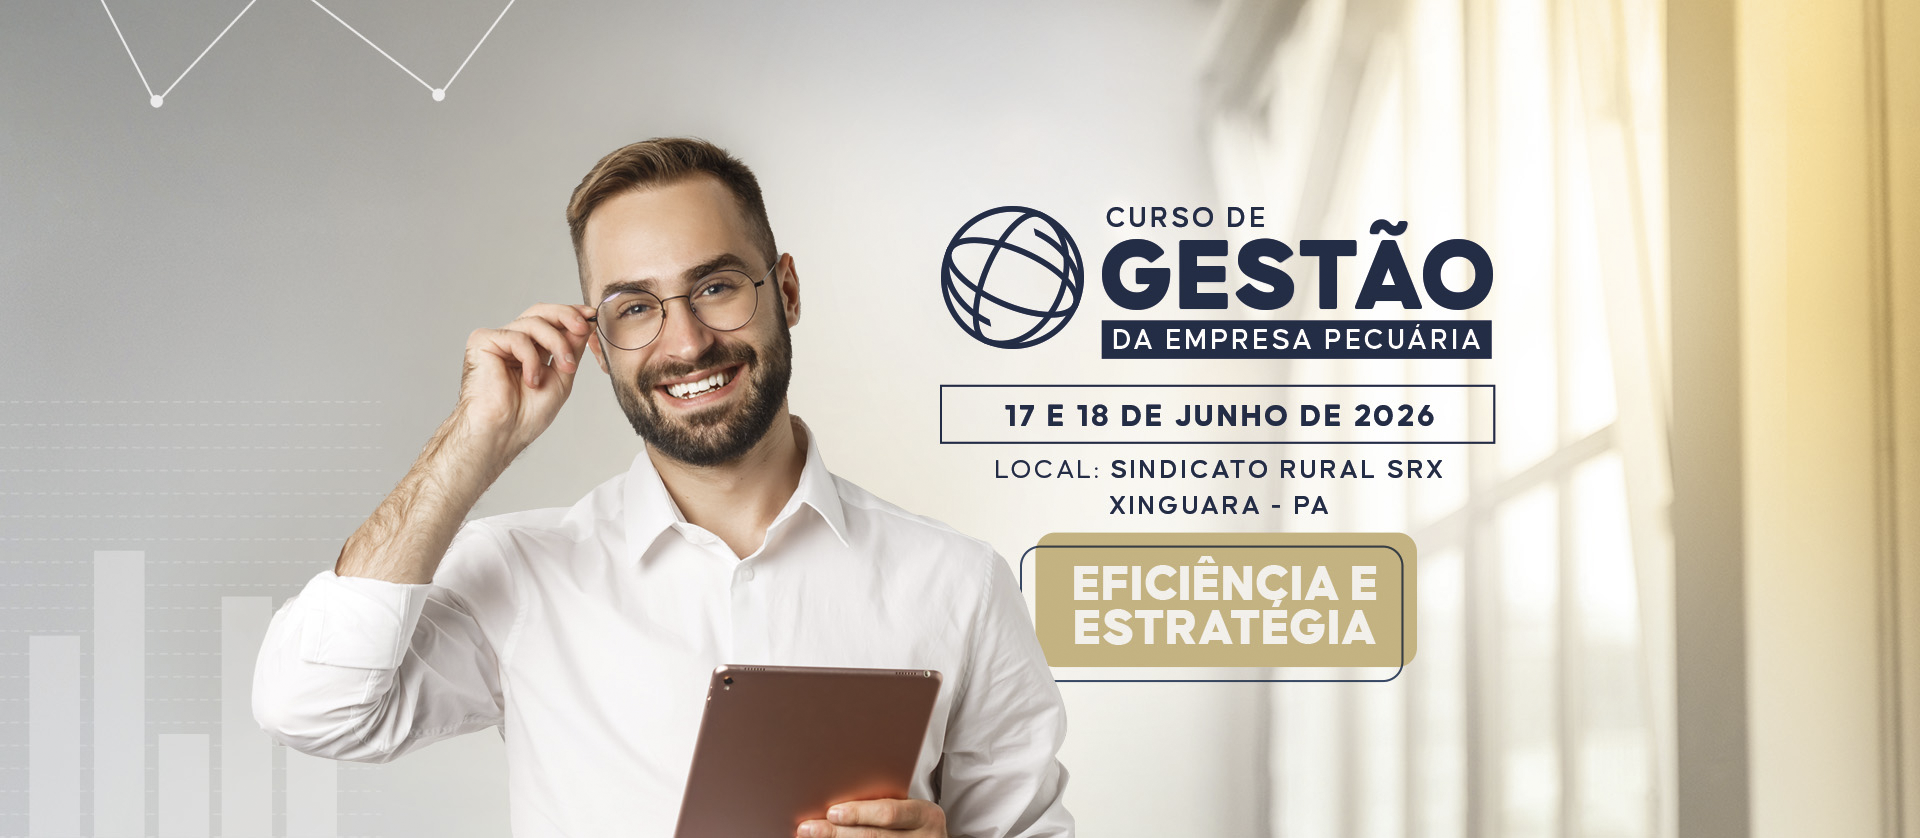
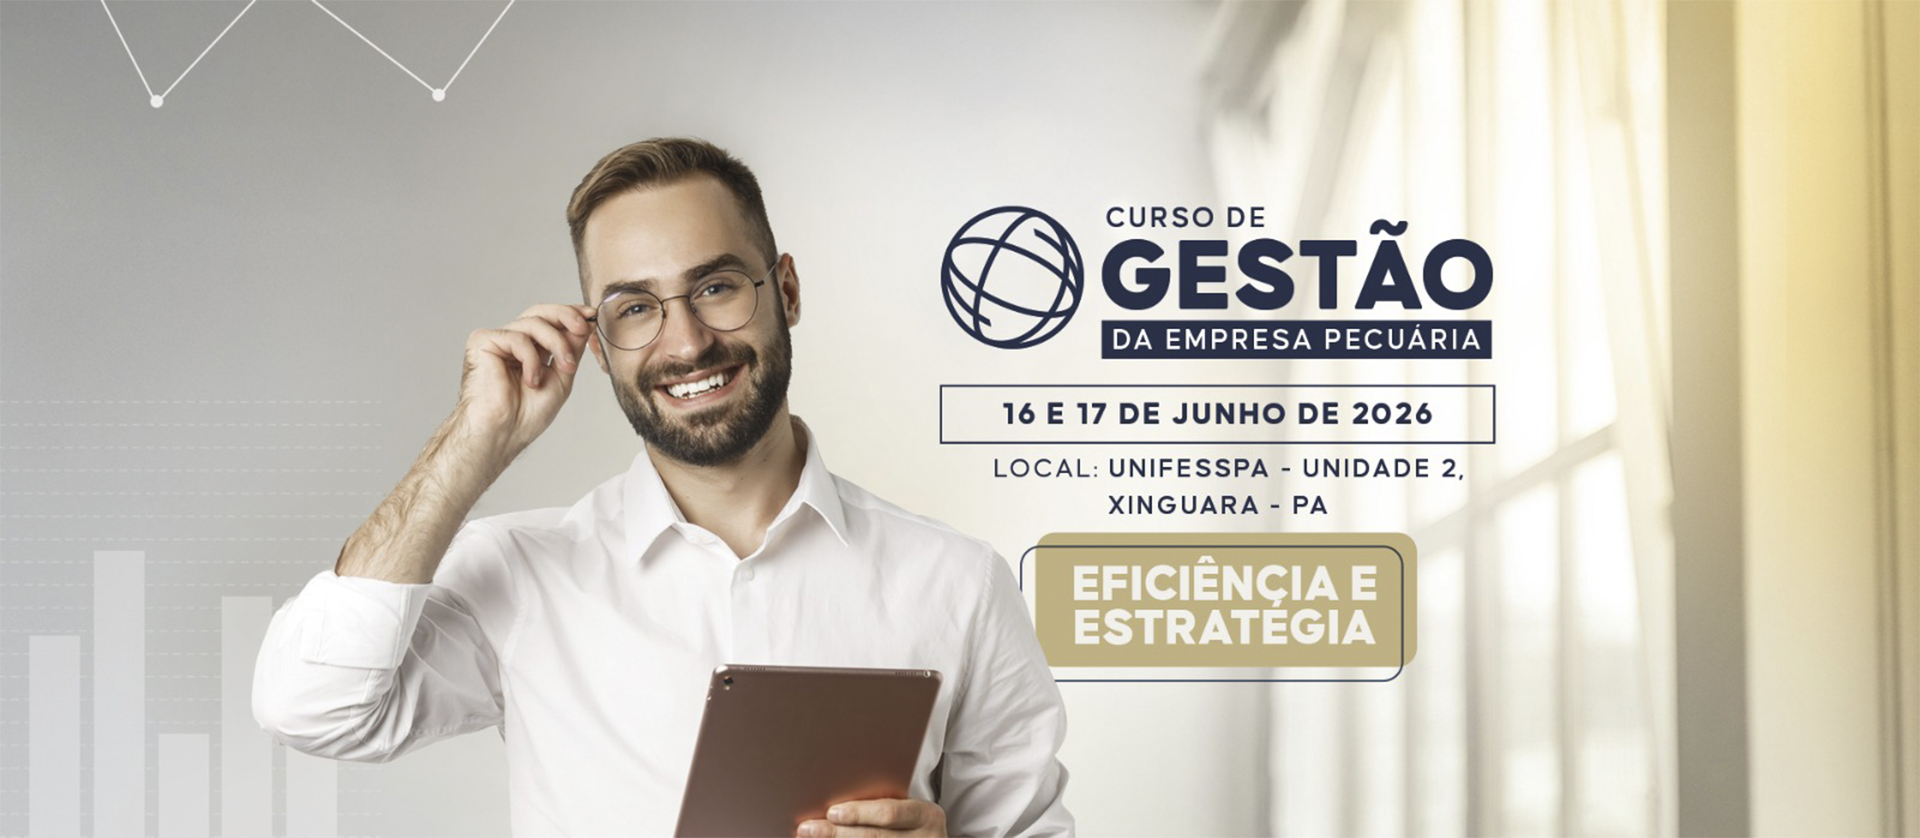
atualização xinguara

diff --git a/client/pages/internasCursos/EmpresaPecuaria.tsx b/client/pages/internasCursos/EmpresaPecuaria.tsx
@@ -25,7 +25,7 @@ const listaEventosCursos = [
     cidade: "XINGUARA",
     estado: "PA",
     data: "17 e 18 de junho de 2026",
-    local: "SINDICATO RURAL SRX",
+    local: "UNIFESSPA - UNIDADE 2",
     imagem: "/images/GESTAOXINGUARA.png",
     link: "/EmpresaPecuariaXG",
     status: "Inscrições Abertas"
